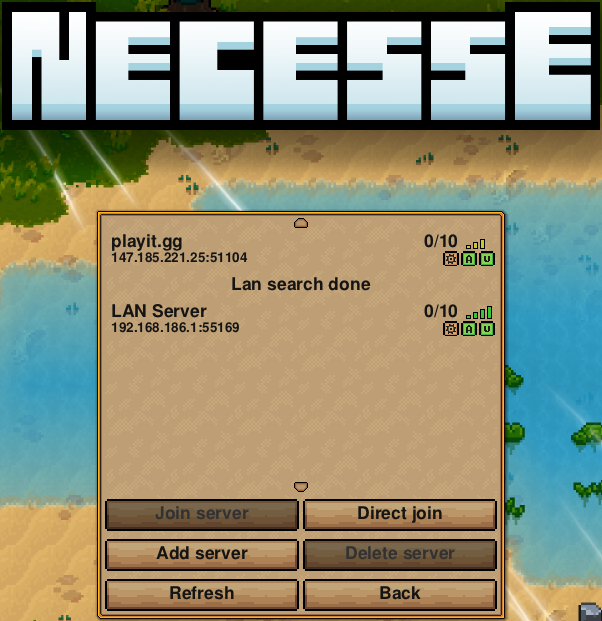
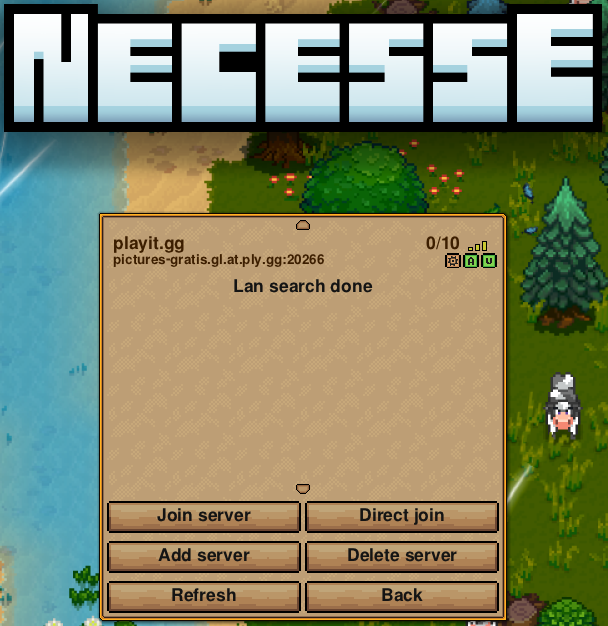
Update guides with new images (#50)
* Add new images for Necesse

* Update Necesse guide with new images

* Add new images for Vintage Story

* Update guide to use new images

* Add new images for SVC guide

* Update SVC guide to use new images

* Add new images for Hytale guide

* Fixed mismatched preview ports

I forgot how to use inspect element

* Update Hytale guide with new images

* Update images for SCP:SL guide

* Update images for SCP:SL guide

* Update images for FiveM guide

* Update images for FiveM guide

* Update images for Project Zomboid

* Update images for Project Zomboid

* Fixed SVC - Tunnel config was blank

* Update creating-a-necesse-server-with-playit-windows.md

* Replace images for Necesse guide

* FiveM: Update images

Replace images, no new file path

* Replace images for FiveM guide

* Hytale: Update images

* Hytale: Update images

* SCP:SL: Update images

* SCP:SL: Update images

* Project Zomboid: Update images

* Project Zomboid: Update images

* Project Zomboid: Update images

Fixed origin config port display

* Simple Voice Chat: Update images

* Simple Voice Chat: Update images

* Vintage Story: Update images

* Vintage Story: Update images

* SCP:SL: Update images

* Cleanup: Remove *_new.png

* Cleanup: Remove *_new.png

* Cleanup: Remove *_new.png

* Cleanup: Remove *_new.png

* Cleanup: Remove *_new.png

* Cleanup: Remove *_new.png

* Cleanup: Remove *_new.png

* Cleanup: Remove *_new.png

* Cleanup: Remove *_new.png

* Cleanup: Remove *_new.png
[…]

diff --git a/content/vintage-story-dedicated-server-windows.md b/content/vintage-story-dedicated-server-windows.md
@@ -60,17 +60,13 @@ Tunnel Type: Vintage Story (game)
 
 {{< image src="post-img/playit-vintagestory-addtunnel.png" alt="Add VS tunnel" >}}
 
-After your tunnel is created, you can connect using the IP address and port given by playit:
+After your tunnel is created, you can connect using the domain and port given by playit:
 
 {{< image src="post-img/playit-vintagestory-tunnelinfo.png" alt="Tunnel information" >}}
 
 ### Joining the server
 
 To do this, all we need to do is give the server a name, and enter the connection information from before.
-
-{{< image src="post-img/playit-vintagestory-addserver-with-ip.png" alt="Add VS server with IP" >}}
-
-Alternatively, you can use the domain and port if you prefer that.
 
 {{< image src="post-img/playit-vintagestory-addserver-with-domain.png" alt="Add VS server with domain" >}}
 

diff --git a/content/playit-scpsl-server.md b/content/playit-scpsl-server.md
@@ -59,7 +59,7 @@ Local Port: 7777
 {{< image src="post-img/playit-scpsl-tunnelconfig.png" alt="Tunnel setup" >}}
 
 ### Connecting to the server
-Get the hostname/IP address from the tunnel. This can be found at the top of your tunnel properties.
+Get the hostname/IP address from the tunnel - this can be found in the tunnel page.
 
 {{< image src="post-img/playit-scpsl-tunneladdress.png" alt="Tunnel address" >}}
 
@@ -67,4 +67,5 @@ Inside of SCP: Secret Laboratory, go to **Servers** and then click on **Direct C
 Enter your tunnel information from earlier into here, and then click **Connect**.
 
 {{< image src="post-img/playit-scpsl-serverlist_directconnect.png" alt="Connecting to the server" >}}
+
 {{< image src="post-img/playit-scpsl-serverlist_directconnect-filled.png" alt="Connecting to the server" >}}

diff --git a/content/svc-minecraft.md b/content/svc-minecraft.md
@@ -54,7 +54,7 @@ Local Port: 24454
 {{< image src="post-img/playit-svc-tunnelconfig.png" alt="SVC Tunnel Setup" >}}
 
 
-After creating the tunnel, note the **IP address and port** shown at the top of the tunnel page.
+After creating the tunnel, go back to the tunnel overview, and note the **IP address and port** shown alongside the tunnel
 
 {{< image src="post-img/playit-svc-tunnel_info.png" alt="SVC Tunnel Info" >}}
 

diff --git a/content/hytale-dedicated-server.md b/content/hytale-dedicated-server.md
@@ -89,6 +89,8 @@ This makes it keep the authorization token in an encrypted file in the server.
 
 > playit provides a predefined tunnel type for Hytale — use this instead of manually configuring ports.
 
+{{< image src="post-img/playit-hytale-tunnelconfig_new.png" alt="Tunnel configuration" >}}
+
 ## Connecting to the Server
 
 Players can connect to your server using either:

diff --git a/content/fivem-dedicated-server-windows.md b/content/fivem-dedicated-server-windows.md
@@ -55,3 +55,5 @@ To do this, we'll type in `>IP_Address:Port`. This will be different for everyon
 
 
 {{< image src="post-img/playit-fivem-fivem_connect.png" alt="FiveM Game Server" >}}
+
+
